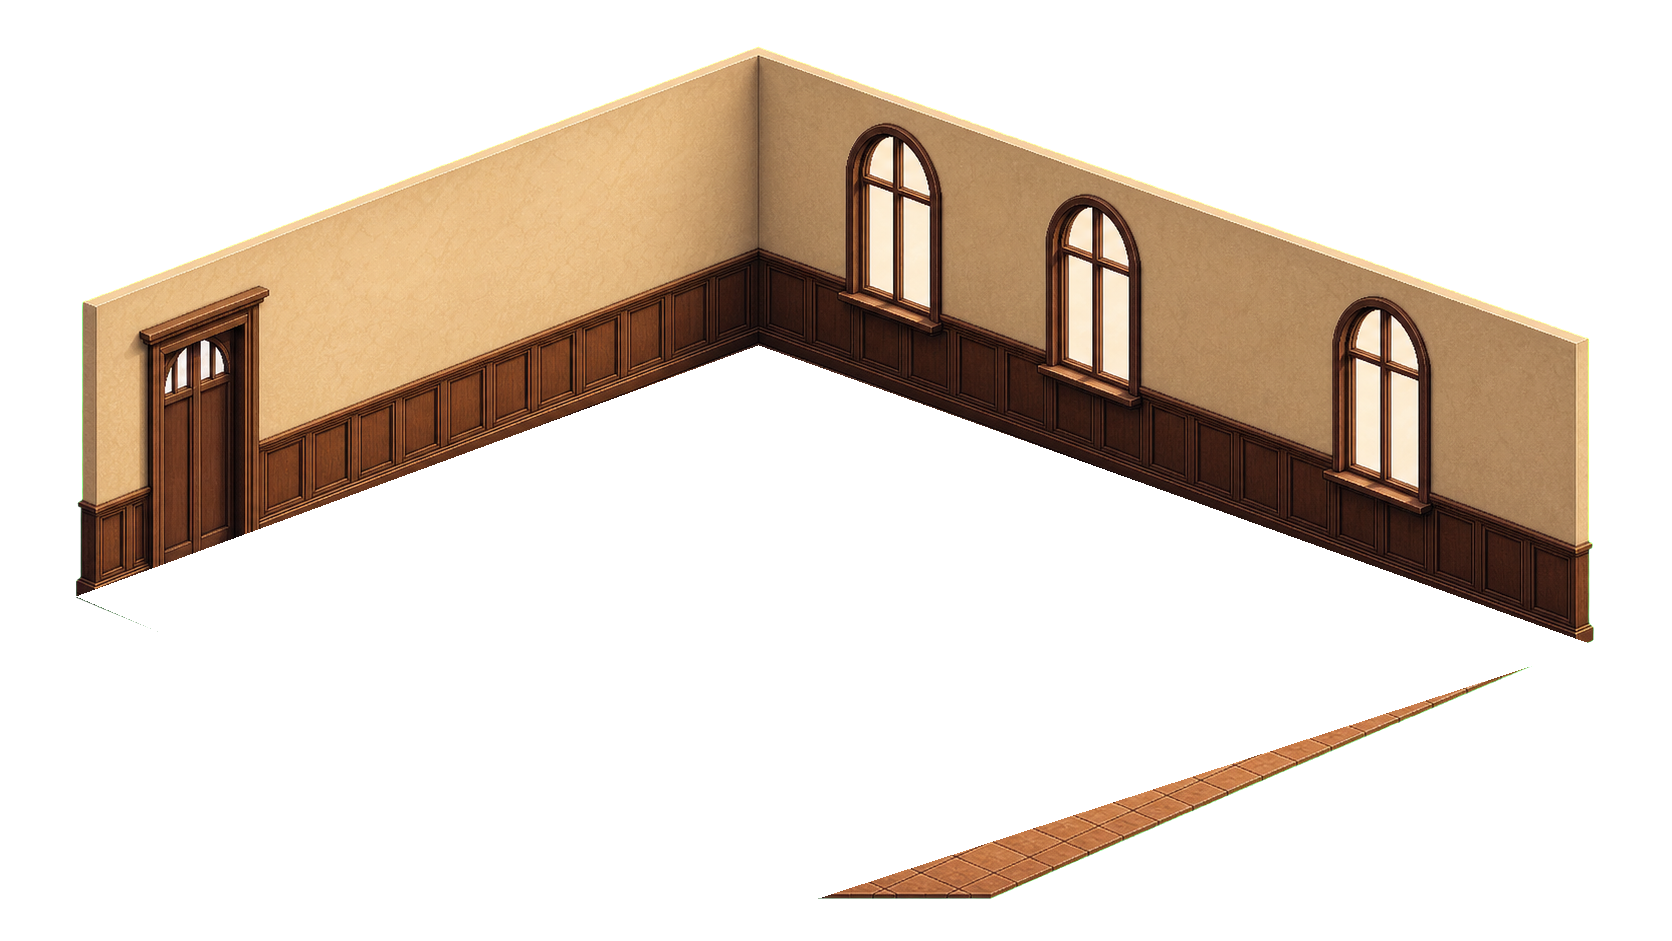
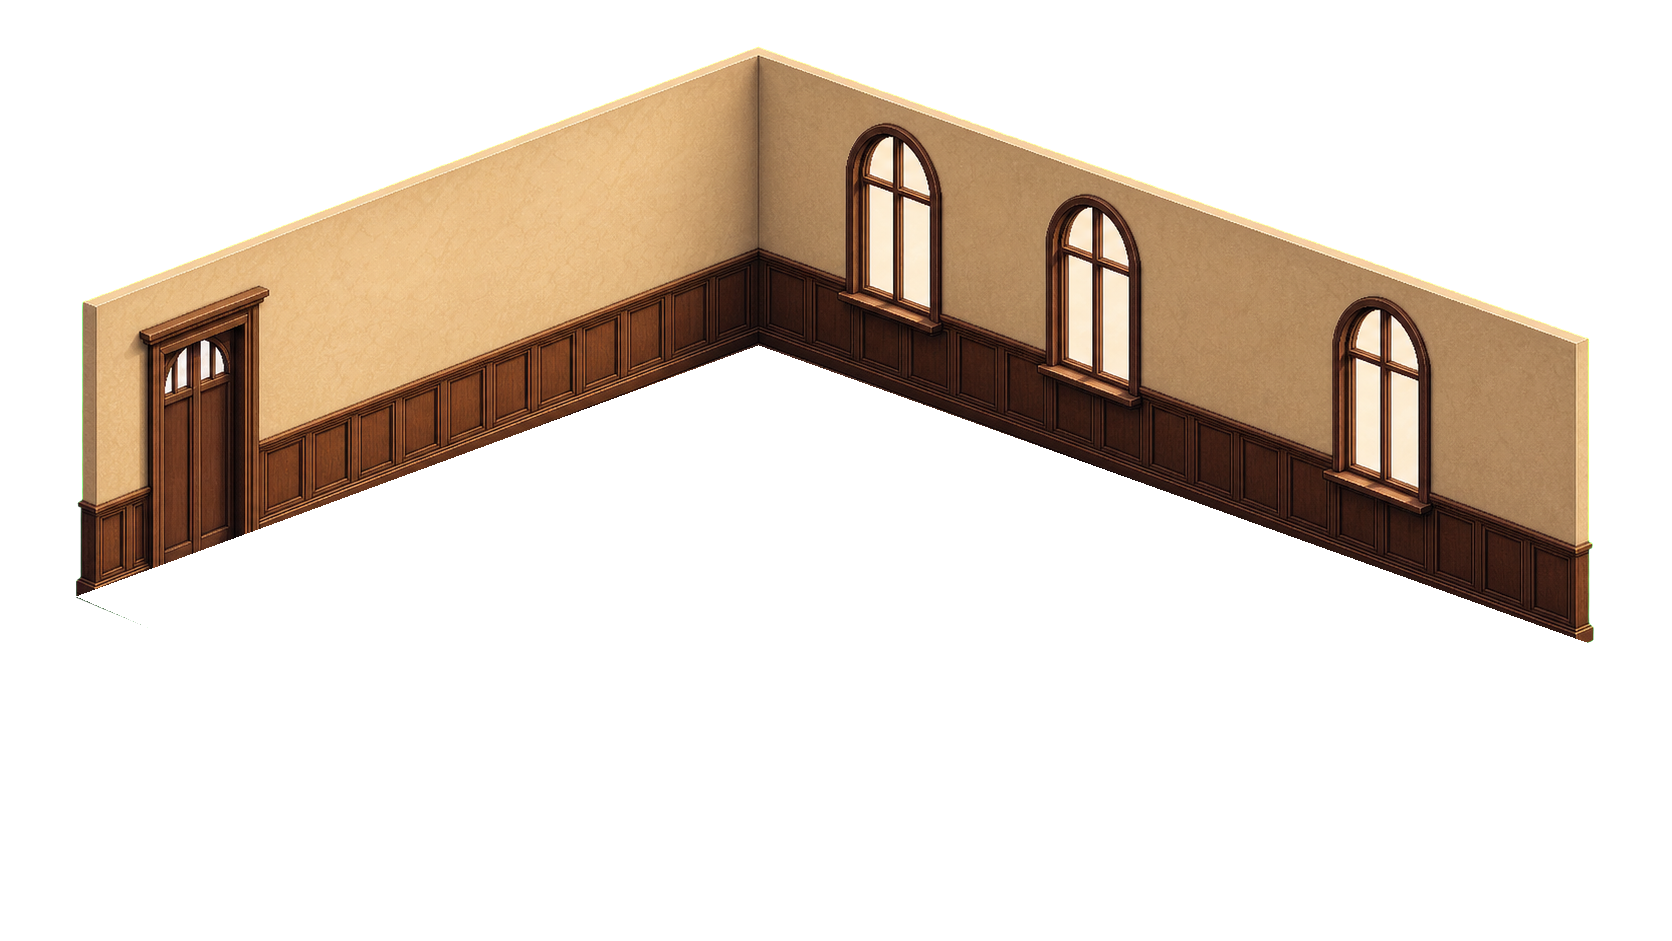
fix: reveal cafe floor without scaling furniture

Changed region(s): [[0.4976, 0.7396, 0.8708, 0.9554], [0.8708, 0.7088, 0.9019, 0.7396]]

diff --git a/src/styles/global.css b/src/styles/global.css
@@ -641,10 +641,10 @@ h3 {
   --cream: #fff2d8;
   --teal: #16606c;
   --shadow: rgba(43, 32, 27, 0.28);
-  /* Only the floor expands; walls, counter and furniture keep their scale. */
+  /* Only the front floor edge expands; walls and furniture stay fixed. */
   --cafe-zoom: 1;
   --cafe-pan-x: 0%;
-  --cafe-floor-growth: 0.84;
+  --cafe-floor-tip: 82%;
   position: relative;
   min-height: 0;
   aspect-ratio: 16 / 9;
@@ -699,7 +699,6 @@ h3 {
   position: absolute;
 }
 
-.cafe-floor-base,
 .cafe-floor-growth {
   display: block;
   position: absolute;
@@ -711,17 +710,17 @@ h3 {
   pointer-events: none;
 }
 
-.cafe-floor-base {
-  z-index: 1;
-  filter: brightness(0.54) saturate(0.58) sepia(0.1);
-}
-
 .cafe-floor-growth {
-  z-index: 2;
-  transform: scale(var(--cafe-floor-growth));
-  /* The usable floor unfolds from the counter instead of pulling it away. */
-  transform-origin: 75% 70%;
-  transition: transform 3.6s cubic-bezier(0.4, 0, 0.2, 1);
+  z-index: 1;
+  clip-path: polygon(
+    4.55% 63.34%,
+    45.33% 36.66%,
+    95.34% 68.54%,
+    59.51% var(--cafe-floor-tip),
+    47.25% var(--cafe-floor-tip)
+  );
+  transition: clip-path 3.6s cubic-bezier(0.4, 0, 0.2, 1);
+  will-change: clip-path;
 }
 
 .cafe-back-wall,
@@ -733,7 +732,7 @@ h3 {
   display: block;
   position: absolute;
   inset: 0;
-  z-index: 3;
+  z-index: 2;
   width: 100%;
   height: 100%;
   object-fit: fill;
@@ -741,13 +740,13 @@ h3 {
   image-rendering: pixelated;
 }
 
-.cafe-diorama--growth-day-1 { --cafe-floor-growth: 0.84; }
-.cafe-diorama--growth-day-2 { --cafe-floor-growth: 0.867; }
-.cafe-diorama--growth-day-3 { --cafe-floor-growth: 0.893; }
-.cafe-diorama--growth-day-4 { --cafe-floor-growth: 0.92; }
-.cafe-diorama--growth-day-5 { --cafe-floor-growth: 0.947; }
-.cafe-diorama--growth-day-6 { --cafe-floor-growth: 0.973; }
-.cafe-diorama--growth-day-7 { --cafe-floor-growth: 1; }
+.cafe-diorama--growth-day-1 { --cafe-floor-tip: 82%; }
+.cafe-diorama--growth-day-2 { --cafe-floor-tip: 84.37%; }
+.cafe-diorama--growth-day-3 { --cafe-floor-tip: 86.73%; }
+.cafe-diorama--growth-day-4 { --cafe-floor-tip: 89.1%; }
+.cafe-diorama--growth-day-5 { --cafe-floor-tip: 91.47%; }
+.cafe-diorama--growth-day-6 { --cafe-floor-tip: 93.83%; }
+.cafe-diorama--growth-day-7 { --cafe-floor-tip: 96.2%; }
 
 @media (prefers-reduced-motion: reduce) {
   .cafe-floor-growth { transition: none; }
@@ -900,10 +899,10 @@ h3 {
   right: 6%;
   bottom: 4%;
   left: 5%;
-  z-index: 2;
+  z-index: 4;
   height: 65%;
-  clip-path: polygon(9% 1%, 100% 15%, 88% 100%, 0 84%);
-  overflow: hidden;
+  clip-path: none;
+  overflow: visible;
   border: 3px solid transparent;
   background: transparent;
   box-shadow: none;
@@ -934,12 +933,13 @@ h3 {
 }
 
 .cafe-counter {
-  /* Fixed on the day-one floor; it does not move as the room opens up. */
-  top: 45%;
-  left: 53%;
+  /* Fixed furniture overlay; independent from the growing floor mask. */
+  top: 29%;
+  left: 62%;
   z-index: 4;
-  width: 43.8%;
-  height: 33.8%;
+  width: 31.5%;
+  height: auto;
+  aspect-ratio: 384 / 224;
   border: none;
   border-radius: 7px;
   background: transparent;
@@ -976,8 +976,8 @@ h3 {
 .cafe-coffee-machine {
   position: absolute;
   /* Stands on the painted counter top at the L-junction (left end of the bar). */
-  top: -28%;
-  left: 7%;
+  top: -8%;
+  left: 13%;
   width: 22%;
   height: 52%;
   border: 3px solid transparent;
@@ -1041,8 +1041,8 @@ h3 {
 .cafe-register {
   position: absolute;
   /* Stands on the right end of the painted counter top. */
-  top: -16%;
-  right: 16%;
+  top: -3%;
+  right: 8%;
   width: 21%;
   height: 48%;
   transform: skewY(2deg);
@@ -1149,8 +1149,9 @@ h3 {
  */
 .cafe-table {
   z-index: 5;
-  width: 22%;
-  height: 26%;
+  width: 14%;
+  height: auto;
+  aspect-ratio: 1;
   /* Furniture-free Stage Base (nofurniture-fix) paints no tables, so the bought
      seating shows the real pixel sprite instead of the old CSS ghost boxes.
      Sub-shapes (__top / chairs / pseudo legs) are neutralised below. */
@@ -1221,13 +1222,13 @@ button.cafe-table {
 }
 
 .cafe-table--left {
-  left: 23%;
-  bottom: 32%;
+  top: 40%;
+  left: 25%;
 }
 
 .cafe-table--right {
-  right: 31%;
-  bottom: 30%;
+  top: 42%;
+  left: 43%;
 }
 
 /* Back table — sits in the gap between Bohn and the counter/machine, further
@@ -1235,10 +1236,11 @@ button.cafe-table {
    two front tables. Hosts Nele + Fatou instead of crowding a third chair
    onto the front tables (whose sprite only draws two chairs). */
 .cafe-table--back {
-  left: 45%;
-  bottom: 47%;
-  width: 18%;
-  height: 16%;
+  top: 25%;
+  left: 35%;
+  width: 12%;
+  height: auto;
+  aspect-ratio: 1;
 }
 
 .cafe-table__top {
@@ -4171,11 +4173,9 @@ button.cafe-table {
   box-shadow: none !important;
 }
 
-/* === CSS-Diorama dauerhaft deaktiviert — nur das PNG (.cafe-stage-base) ist Hintergrund ===
-   Hard-Override: der gemalte Hintergrund ist die einzige Raumdarstellung. Die
-   Struktur-Container (.cafe-floor/.cafe-counter) bleiben als unsichtbare
-   Positionierungs-Boxen erhalten, damit Maschine/Kasse/Props weiter ankern.
-   cafe-counter__front/ledge bleiben sichtbar (furniture-free Hintergrund hat keine gemalte Theke). */
+/* === CSS-Diorama dauerhaft deaktiviert — Floor- und Shell-PNG bilden den Raum ===
+   Die Struktur-Container bleiben als ungeclippte Möbel-Ebene erhalten, damit
+   Maschine, Kasse, Tische und Gäste unabhängig vom Boden-Reveal ankern. */
 .cafe-stage-base { display: block !important; }
 .cafe-back-wall,
 .cafe-side-wall,

diff --git a/src/ui/cafe/CafePlaceholder.tsx b/src/ui/cafe/CafePlaceholder.tsx
@@ -272,7 +272,6 @@ export function CafePlaceholder({ gameState, onCleanTable }: CafePlaceholderProp
           </span>
         )}
         <div className="cafe-world">
-          <img className="cafe-floor-base" src={floorGrowthAsset} alt="" aria-hidden="true" />
           <img className="cafe-floor-growth" src={floorGrowthAsset} alt="" aria-hidden="true" />
           <img className="cafe-stage-base" src={stageShellAsset} alt="" aria-hidden="true" />
           {isDusty && <div className="cafe-dust" aria-hidden="true" />}

diff --git a/tests/cafe-diorama.test.tsx b/tests/cafe-diorama.test.tsx
@@ -226,7 +226,6 @@ describe("café diorama view", () => {
   it("keeps a fixed room shell behind the growing usable floor", () => {
     const markup = renderCafe(createInitialGameState());
 
-    expect(markup).toContain("cafe-floor-base");
     expect(markup).toContain("cafe-floor-growth");
     expect(markup).toContain("cafe-stage-base");
   });

diff --git a/tools/split_cafe_floor_layers.py b/tools/split_cafe_floor_layers.py
@@ -11,9 +11,16 @@ SOURCE = ROOT / "assets/backgrounds/placeholder-cafe-stage-base-growth-v01.png"
 SHELL = ROOT / "assets/backgrounds/placeholder-cafe-stage-shell-v01.png"
 FLOOR = ROOT / "assets/backgrounds/placeholder-cafe-floor-growth-v01.png"
 
-# The four painted floor corners in the 1672 x 941 source.  The wall-panel seam
-# stays on the floor layer, so the floor and the shell meet cleanly at day seven.
-FLOOR_POLYGON = [(76, 596), (758, 345), (1594, 645), (796, 905)]
+# The five painted floor corners in the 1672 x 941 source. The short flat front
+# edge is intentional; omitting its right corner leaves a detached floor wedge
+# in the otherwise transparent wall shell.
+FLOOR_POLYGON = [
+    (76, 596),
+    (758, 345),
+    (1594, 645),
+    (995, 905),
+    (790, 905),
+]
 
 
 def main() -> None: